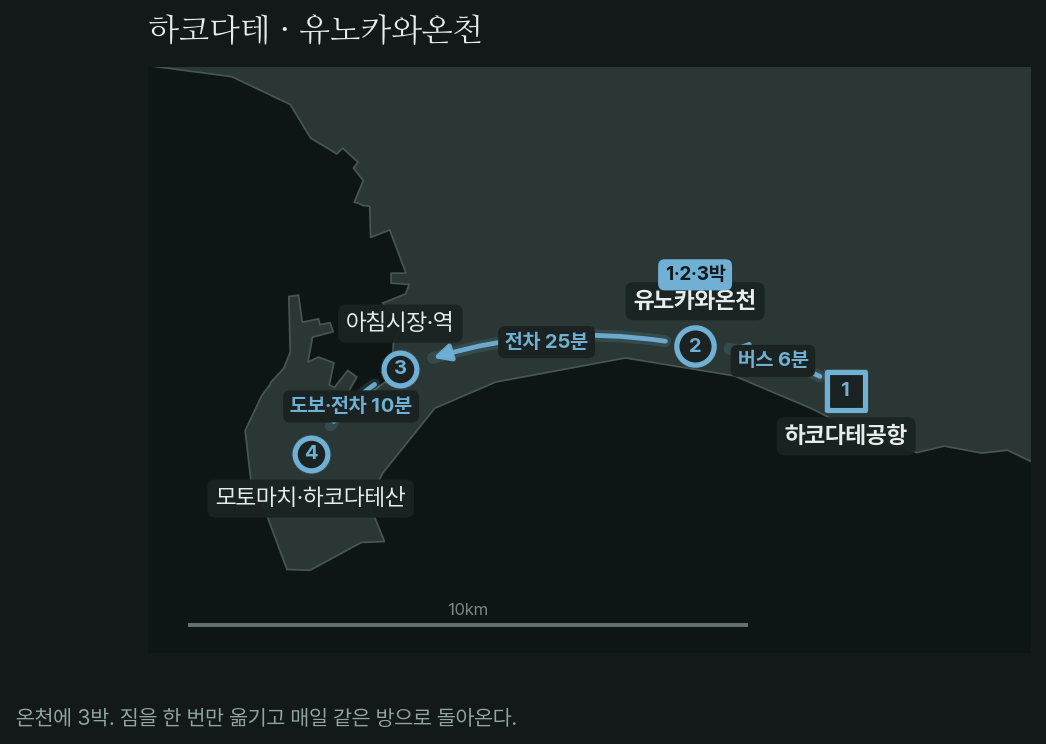
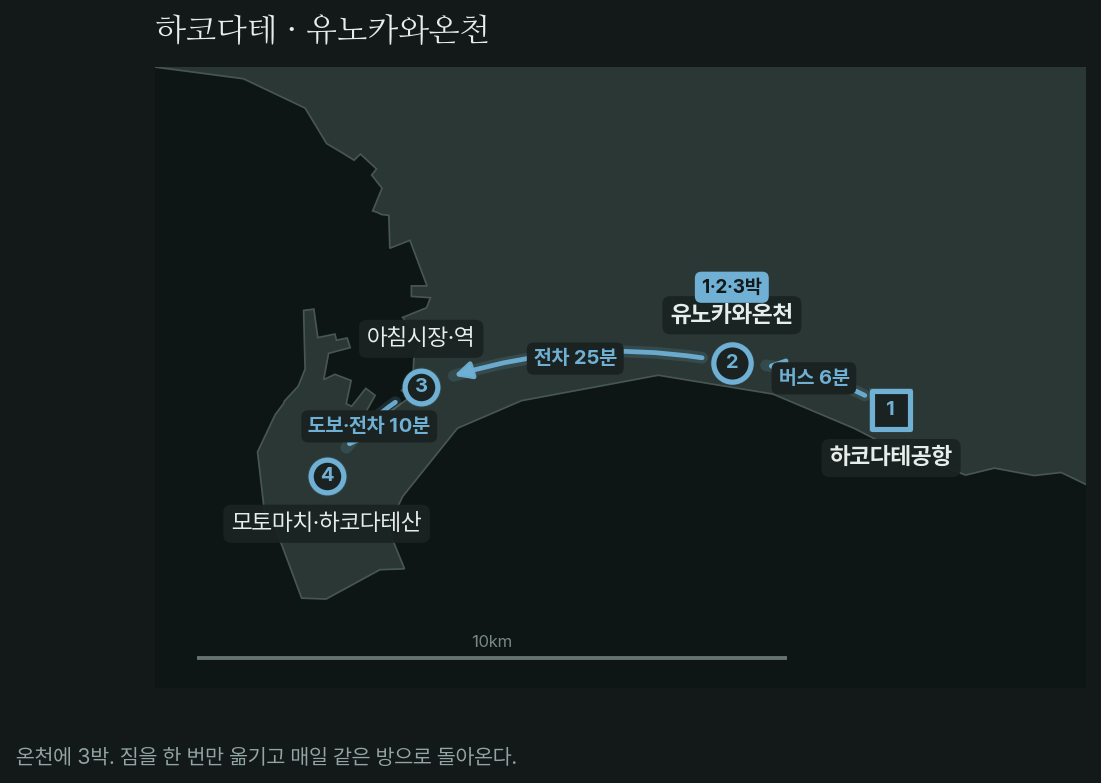
style: 동선 지도 비율을 3:2로 통일
도시마다 지점 분포가 달라 센다이·아오모리는 세로, 하코다테·요나고는
가로로 나왔다. 탭을 넘길 때마다 그림 높이가 튀어 페이지가 들썩였다.

bbox를 3:2에 맞추되 잘라내지 않고 모자란 쪽만 넓힌다 — 동선 크기는
그대로고 여백만 늘어난다. 다섯 장이 1101x783로 같아졌다.

diff --git a/japan-onsen-picker/_figures/make_routes.py b/japan-onsen-picker/_figures/make_routes.py
@@ -149,8 +149,21 @@ def draw(key, cfg, prefs, theme="light"):
 
     # 경도 1도는 위도에 따라 짧아진다 — 화면 비율을 실제 거리에 맞춘다
     kx = math.cos(math.radians((y0 + y1) / 2))
+
+    # 도시마다 비율이 달라 탭을 넘길 때 높이가 튀었다. 3:2로 맞추되
+    # 잘라내지 않고 모자란 쪽만 넓힌다 — 동선은 그대로 두고 여백만 는다.
+    ratio = 1.5
     w, h = (x1 - x0) * kx, (y1 - y0)
-    fig_w = 7.4
+    if w / h < ratio:
+        need = h * ratio / kx
+        cx = (x0 + x1) / 2
+        x0, x1 = cx - need / 2, cx + need / 2
+    else:
+        need = w / ratio
+        cy = (y0 + y1) / 2
+        y0, y1 = cy - need / 2, cy + need / 2
+    w, h = (x1 - x0) * kx, (y1 - y0)
+    fig_w = 7.8
     fig, ax = plt.subplots(figsize=(fig_w, fig_w * h / w))
     fig.patch.set_facecolor(C["bg"])
     ax.set_facecolor(C["sea"])
